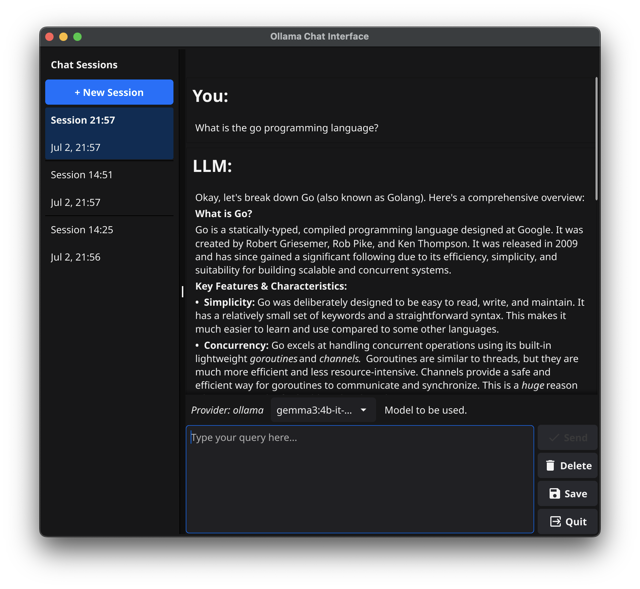
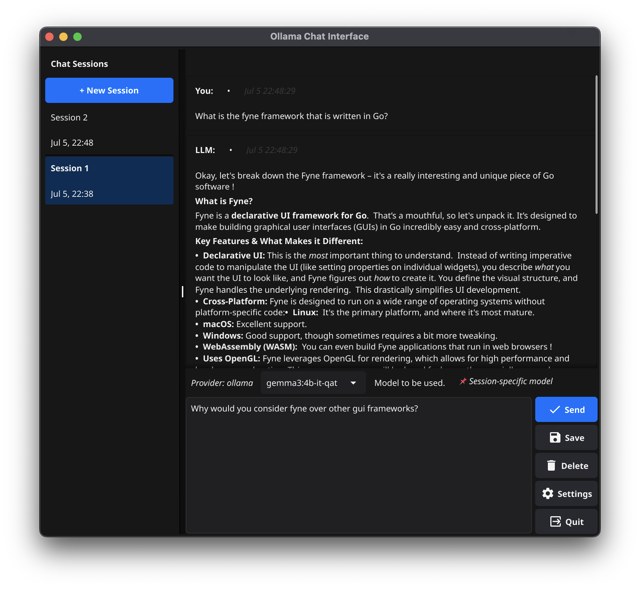
feat: Enhance configuration management and update chat UI with new session handling
- Fix issue with session context
- Update README

diff --git a/internal/ui/chat.go b/internal/ui/chat.go
@@ -3,6 +3,7 @@ package ui
 import (
 	"context"
 	"fmt"
+	"strconv"
 	"strings"
 	"time"
 
@@ -83,6 +84,7 @@ type ChatUI struct {
 	saveButton        *widget.Button
 	cancelButton      *widget.Button
 	settingsButton    *widget.Button
+	quitButton        *widget.Button
 
 	// Session management UI
 	sessionList      *widget.List
@@ -151,8 +153,8 @@ func (ui *ChatUI) setupUI() {
 	// Status area with cancel button
 	statusArea := container.NewBorder(nil, nil, nil, ui.cancelButton, ui.statusLabel)
 
-	// Button area
-	buttons := container.NewVBox(ui.sendButton, ui.clearButton, ui.saveButton, ui.settingsButton, ui.createQuitButton())
+	// Button area - Group by importance: High, Medium (grouped together), Danger
+	buttons := container.NewVBox(ui.sendButton, ui.saveButton, ui.clearButton, ui.settingsButton, ui.quitButton)
 
 	// Input area
 	inputArea := container.NewBorder(nil, nil, nil, buttons, ui.inputField)
@@ -251,12 +253,31 @@ func (ui *ChatUI) setupModelSelection() error {
 // initButtons creates and configures all buttons
 func (ui *ChatUI) initButtons() {
 	ui.sendButton = widget.NewButtonWithIcon("Send", theme.ConfirmIcon(), ui.onSendButtonTapped)
-	ui.clearButton = widget.NewButtonWithIcon("Delete", theme.DeleteIcon(), ui.onClearButtonTapped)
+	ui.sendButton.Importance = widget.HighImportance // Blue/primary color when enabled
+
 	ui.saveButton = widget.NewButtonWithIcon("Save", theme.DocumentSaveIcon(), ui.onSaveButtonTapped)
+	ui.saveButton.Importance = widget.MediumImportance // Secondary color when enabled
+
+	ui.clearButton = widget.NewButtonWithIcon("Delete", theme.DeleteIcon(), ui.onClearButtonTapped)
+	ui.clearButton.Importance = widget.MediumImportance // Medium importance like other utility functions
+
 	ui.cancelButton = widget.NewButtonWithIcon("Cancel", theme.CancelIcon(), ui.onCancelButtonTapped)
+	ui.cancelButton.Importance = widget.MediumImportance
+
 	ui.settingsButton = widget.NewButtonWithIcon("Settings", theme.SettingsIcon(), ui.onSettingsButtonTapped)
+	ui.settingsButton.Importance = widget.MediumImportance // Medium importance like other utility functions
+
+	ui.quitButton = widget.NewButtonWithIcon("Quit", theme.LogoutIcon(), func() {
+		ui.window.Close()
+	})
+	ui.quitButton.Importance = widget.MediumImportance
+
 	ui.cancelButton.Hide()
-	ui.disableUtilityButtons()
+
+	// Set initial button states
+	ui.sendButton.Disable() // Will be enabled when input is provided
+	ui.clearButton.Enable() // Always allow session deletion
+	ui.saveButton.Disable() // Will be enabled when there are messages to save
 }
 
 // initProviderUI initializes provider-related UI components
@@ -292,7 +313,7 @@ func (ui *ChatUI) loadCurrentSession() error {
 
 	// No existing sessions, create a new one
 	ui.currentSession = ui.createNewSessionWithDefaults(
-		generateDefaultSessionName(),
+		ui.generateDefaultSessionName(),
 		"",
 	)
 	ui.autoSaveCurrentSession()
@@ -330,8 +351,8 @@ func (ui *ChatUI) onSendButtonTapped() {
 	ui.queryInProgress = true
 	ui.updateSendButtonState()
 
-	// Add user message to UI and session
-	ui.addMessageCard(query, true, true)
+	// Add user message to UI only (don't save to history yet)
+	ui.addMessageCard(query, true, false)
 	ui.inputField.SetText("")
 
 	ui.scrollContainer.ScrollToBottom()
@@ -343,7 +364,7 @@ func (ui *ChatUI) onSendButtonTapped() {
 
 	// Build prompt with history
 	fullPrompt := ui.buildPromptWithHistory(query, ui.currentSession.MaxMessages)
-	go ui.sendMessageToLLM(ctx, selectedModel, fullPrompt)
+	go ui.sendMessageToLLM(ctx, selectedModel, fullPrompt, query)
 }
 
 func (ui *ChatUI) onClearButtonTapped() {
@@ -632,9 +653,30 @@ func (ui *ChatUI) extractModelNames(models []models.Model) []string {
 	return modelNames
 }
 
-// generateDefaultSessionName creates a default session name with timestamp
-func generateDefaultSessionName() string {
-	return fmt.Sprintf("Session %s", time.Now().Format("15:04"))
+// generateDefaultSessionName creates a default session name with incremental counter
+func (ui *ChatUI) generateDefaultSessionName() string {
+	// If no sessions exist, always start with "Session 1"
+	if len(ui.sessions) == 0 {
+		return "Session 1"
+	}
+
+	// Find the highest existing session number
+	maxNumber := 0
+	for _, session := range ui.sessions {
+		// Parse session names like "Session 1", "Session 2", etc.
+		if strings.HasPrefix(session.Name, "Session ") {
+			numberStr := strings.TrimPrefix(session.Name, "Session ")
+			if number, err := strconv.Atoi(numberStr); err == nil {
+				if number > maxNumber {
+					maxNumber = number
+				}
+			}
+		}
+	}
+
+	// Next session number
+	nextNumber := maxNumber + 1
+	return fmt.Sprintf("Session %d", nextNumber)
 }
 
 func (ui *ChatUI) calculateModelSelectWidth() float32 {
@@ -693,7 +735,8 @@ func (ui *ChatUI) addMessageCard(content string, isUserMessage, saveToHistory bo
 
 	messageCard := ui.createMessageCardWithTimestamp(title, content, time.Now())
 	ui.chatContainer.Add(messageCard)
-	ui.enableUtilityButtons()
+	ui.clearButton.Enable()    // Always enable delete
+	ui.updateSaveButtonState() // Update save button based on messages
 
 	if saveToHistory {
 		message := models.NewChatMessage(sender, content)
@@ -720,7 +763,8 @@ func (ui *ChatUI) addMessageCardFromChatMessage(msg models.ChatMessage, saveToHi
 
 	messageCard := ui.createMessageCardWithTimestamp(title, msg.Content, msg.Timestamp)
 	ui.chatContainer.Add(messageCard)
-	ui.enableUtilityButtons()
+	ui.clearButton.Enable()    // Always enable delete
+	ui.updateSaveButtonState() // Update save button based on messages
 
 	if saveToHistory {
 		ui.currentSession.AddMessage(msg)
@@ -735,15 +779,12 @@ func (ui *ChatUI) addMessageCardFromChatMessage(msg models.ChatMessage, saveToHi
 	return messageCard
 }
 
-func (ui *ChatUI) enableUtilityButtons() {
-	ui.clearButton.Enable()
-	ui.saveButton.Enable()
-}
-
-func (ui *ChatUI) disableUtilityButtons() {
-	ui.sendButton.Disable()
-	ui.clearButton.Disable()
-	ui.saveButton.Disable()
+func (ui *ChatUI) updateSaveButtonState() {
+	if len(ui.currentSession.Messages) > 0 {
+		ui.saveButton.Enable()
+	} else {
+		ui.saveButton.Disable()
+	}
 }
 
 func (ui *ChatUI) updateSendButtonState() {
@@ -791,12 +832,6 @@ func (ui *ChatUI) handleLLMResponseError(err error) {
 	ui.clearProcessingStatus()
 }
 
-func (ui *ChatUI) createQuitButton() *widget.Button {
-	return widget.NewButtonWithIcon("Quit", theme.LogoutIcon(), func() {
-		ui.window.Close()
-	})
-}
-
 func (ui *ChatUI) buildPromptWithHistory(newUserMessage string, maxMessages int) string {
 	var prompt strings.Builder
 	prompt.WriteString("You are a helpful assistant.\n\n")
@@ -822,7 +857,11 @@ func (ui *ChatUI) buildPromptWithHistory(newUserMessage string, maxMessages int)
 }
 
 // sendMessageToLLM handles the streaming LLM response
-func (ui *ChatUI) sendMessageToLLM(ctx context.Context, selectedModel, query string) {
+func (ui *ChatUI) sendMessageToLLM(ctx context.Context, selectedModel, query, userMessage string) {
+	// First, add the user message to session history
+	userMsg := models.NewChatMessage("user", userMessage)
+	ui.currentSession.AddMessage(userMsg)
+
 	var card *widget.Card
 	llmResponse := ""
 	var llmMessage *models.ChatMessage
@@ -982,7 +1021,7 @@ func (ui *ChatUI) onNewSessionTapped() {
 
 	// Create new session with config defaults (no specific model preference initially)
 	newSession := ui.createNewSessionWithDefaults(
-		generateDefaultSessionName(),
+		ui.generateDefaultSessionName(),
 		"", // No specific model preference - will use global selection
 	)
 
@@ -1051,12 +1090,9 @@ func (ui *ChatUI) onSessionSelected(id widget.ListItemID) {
 	// Update model selection based on session preference or load global default
 	ui.updateModelSelectionForSession()
 
-	// Enable utility buttons if session has messages
-	if len(ui.currentSession.Messages) > 0 {
-		ui.enableUtilityButtons()
-	} else {
-		ui.disableUtilityButtons()
-	}
+	// Always enable delete button, conditionally enable save button
+	ui.clearButton.Enable()
+	ui.updateSaveButtonState()
 
 	ui.scrollContainer.ScrollToBottom()
 
@@ -1113,11 +1149,14 @@ func (ui *ChatUI) deleteCurrentSession() {
 		return
 	}
 
+	// Update the local sessions list to reflect the deletion
+	ui.sessions = sessions
+
 	// If no sessions remain, create a new session
 	if len(sessions) == 0 {
 		ui.logger.Info("No sessions remaining, creating new session")
 		newSession := ui.createNewSessionWithDefaults(
-			generateDefaultSessionName(),
+			ui.generateDefaultSessionName(), // This will now return "Session 1" since ui.sessions is empty
 			ui.currentSession.Model,
 		)
 		ui.currentSession = newSession
@@ -1160,12 +1199,9 @@ func (ui *ChatUI) deleteCurrentSession() {
 		}
 	}()
 
-	// Enable utility buttons if the current session has messages
-	if len(ui.currentSession.Messages) > 0 {
-		ui.enableUtilityButtons()
-	} else {
-		ui.disableUtilityButtons()
-	}
+	// Always enable delete button, conditionally enable save button based on messages
+	ui.clearButton.Enable()
+	ui.updateSaveButtonState()
 
 	ui.window.Content().Refresh()
 	ui.logger.Info("Session deleted successfully", "deleted_session_id", sessionID, "current_session_id", ui.currentSession.ID)
@@ -1208,12 +1244,9 @@ func (ui *ChatUI) loadCurrentSessionMessages() {
 		ui.setModelSelectWithoutCallback(globalModel)
 	}
 
-	// Enable utility buttons if session has messages
-	if len(ui.currentSession.Messages) > 0 {
-		ui.enableUtilityButtons()
-	} else {
-		ui.disableUtilityButtons()
-	}
+	// Always enable delete button, conditionally enable save button
+	ui.clearButton.Enable()
+	ui.updateSaveButtonState()
 
 	ui.chatContainer.Refresh()
 	if ui.scrollContainer != nil {

diff --git a/README.md b/README.md
@@ -157,6 +157,17 @@ ui:
   window_height: 700
 ```
 
+### Configuration Precedence
+
+The application follows a clear configuration hierarchy to ensure predictable behavior:
+
+1. **YAML Configuration** (`configs/config.yaml`) - **Highest Priority**: Values defined in the YAML file always take precedence
+2. **Application Defaults** (`internal/constants/defaults.go`) - **Fallback Only**: Used only when YAML values are missing or invalid
+
+This design ensures that explicit configuration choices in `config.yaml` are always respected, with defaults serving only as a safety net. All settings (timeouts, max tokens, UI dimensions, etc.) follow this precedence model.
+
+### Configuration Management
+
 Configuration can be modified through the built-in settings dialog (accessible via the Settings button), by editing the YAML file directly, or through the application preferences (stored in `data/preferences.json`). The settings dialog provides real-time validation and immediate UI updates for window size, sidebar width, and session-specific settings like model selection and temperature.
 
 ## Future Capabilities & Extensibility
